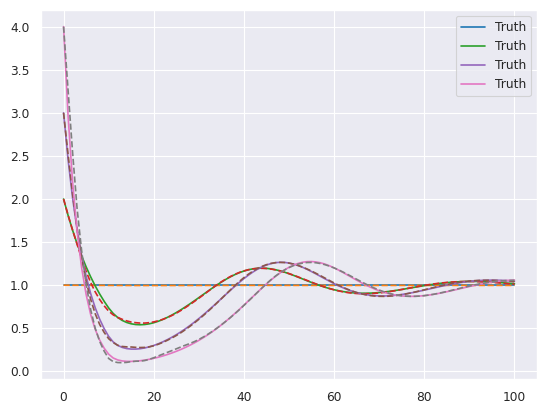
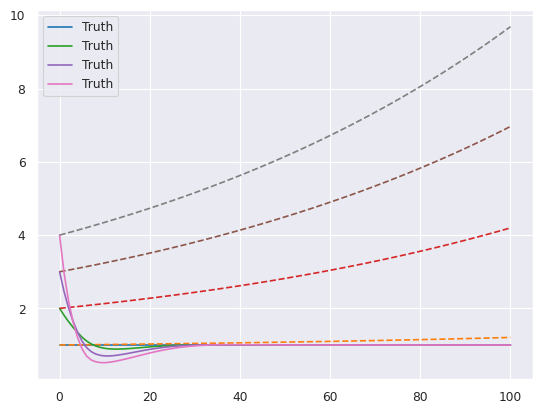
changed list of history to tensor

diff --git a/torchdde/nnde_adjoint.py b/torchdde/nnde_adjoint.py
@@ -171,12 +171,12 @@ class nddeint_ACA(torch.autograd.Function):
                 val = val + ctx.dt * func(
                     current_t,
                     val,
-                    history=[
+                    history = torch.hstack([
                         history_func(current_t - tau)
                         if current_t - tau <= ctx.ts[0]
                         else state_interpolator(current_t - tau)
                         for tau in delays
-                    ],
+                    ]),
                 )
                 state_interpolator.add_point(current_t, val)
                 values.append(val)
@@ -187,7 +187,6 @@ class nddeint_ACA(torch.autograd.Function):
         ctx.alltimes = alltimes
         ctx.history = state_interpolator
         ctx.allstates = torch.hstack(values)[..., None]
-        # print("tx.ys.grad_fn", ctx.allstates.grad_fn)
         return ctx.allstates
 
     @staticmethod
@@ -203,12 +202,9 @@ class nddeint_ACA(torch.autograd.Function):
         # f_params holds the NDDE parameters for which a gradient will be computed
         params = ctx.saved_tensors
         state_interpolator = ctx.history
-        # aux = []
-        # for t in time_mesh :
-        #     aux.append(state_interpolator(t)[0])
-
+     
         T = time_mesh[-1]
-        # adjoint_state = grad_output[:, -1]
+
         adjoint_state = torch.zeros_like(grad_output[:, -1])
         adjoint_ys_final = -grad_output[:, -1].reshape(
             adjoint_state.shape[0], 1, *adjoint_state.shape[1:]
@@ -225,8 +221,6 @@ class nddeint_ACA(torch.autograd.Function):
             # device=adjoint_ys_final.device,
         )
 
-        # adjoint_history = lambda t : adjoint_state if t==T else torch.zeros_like(adjoint_state)
-        out2 = None
         # The adjoint state as well as the parameters' gradient are integrated backwards in time.
         # Following the Adaptive Checkpoint Adjoint method, the time steps and corresponding states of the forward
         # integration are re-used by going backwards in the time mesh.
@@ -244,7 +238,7 @@ class nddeint_ACA(torch.autograd.Function):
                 h_t = torch.autograd.Variable(state_interpolator(t), requires_grad=True)
 
                 # we are in the case where t > T - tau
-                h_t_minus_tau = [state_interpolator(t - tau) if t - tau >= ctx.ts[0] else ctx.y0 for tau in ctx.func.delays]
+                h_t_minus_tau = torch.hstack([state_interpolator(t - tau) if t - tau >= ctx.ts[0] else ctx.y0 for tau in ctx.func.delays])
                 out = ctx.func(t, h_t, history=h_t_minus_tau)
     
                 rhs_adjoint_inc_k1 = torch.autograd.grad(
@@ -258,12 +252,11 @@ class nddeint_ACA(torch.autograd.Function):
                     if t < T - tau_i:
                         adjoint_t_plus_tau = adjoint_interpolator(t + tau_i)
                         h_t_plus_tau = state_interpolator(t + tau_i)
-                        history = [state_interpolator(t + tau_i - tau_j) if t + tau_i - tau_j >= ctx.ts[0] else ctx.y0 for tau_j in ctx.func.delays]
+                        history = torch.cat([state_interpolator(t + tau_i - tau_j)  if t + tau_i - tau_j >= ctx.ts[0] else ctx.y0 for tau_j in ctx.func.delays], dim=-1)
                         out_other = ctx.func(t + tau_i, h_t_plus_tau, history=history)
-                        print(out_other.grad_fn, h_t.grad_fn)
-                        print(adjoint_t_plus_tau.grad_fn)
+                        # out_other = ctx.func(t + tau_i, h_t_plus_tau, history=h_t)
                         rhs_adjoint_inc_k1 = torch.autograd.grad(
-                            out_other, h_t, -adjoint_t_plus_tau
+                            out_other, h_t, -adjoint_t_plus_tau, retain_graph=True
                         )[0]
                     
                         rhs_adjoint = rhs_adjoint + rhs_adjoint_inc_k1
@@ -281,26 +274,10 @@ class nddeint_ACA(torch.autograd.Function):
                 #     print("stacked_params", p.shape)
                 # aux.append(param_derivative_inc)
                 adjoint_state = adjoint_state - ctx.dt * rhs_adjoint
-
-                if out2 is None:
-                    out2 = tuple([+ ctx.dt* p for p in param_derivative_inc])
-                else:
-                    for _1, _2 in zip([*out2], [*param_derivative_inc]):
-                        _1 = _1 + ctx.dt* _2
         
         cum_sum = tuple([ctx.dt * torch.cumsum(p, dim=-1) for p in stacked_params])
         sum_cum_sum = tuple([torch.trapezoid(p, dim=-1) for p in cum_sum])
         
-        # print(*out2, "out2")
-        # values = np.array(aux)
-        # print('values,', values.shape)
-        # sum_cum_values = ctx.dt * torch.from_numpy(np.trapz(np.cumsum(values, axis=1), axis=0))
-        # sum_cum_values = ctx.dt * torch.from_numpy(np.sum(np.cumsum(values, axis=1), axis=0))
-        # print(sum_cum_values, *out2)
-        # print("cum_values", sum_cum_values.shape, sum_cum_values, *out2)
-        # plt.plot(values)
-        # plt.show()
-        # print(aux[-1].shape, values.shape, *out2)
         return None, None, None, *sum_cum_sum
         # return None, None, None, *out2
 

diff --git a/ndde.py b/ndde.py
@@ -30,14 +30,6 @@ def simple_dde3(t, y, *, history):
     return 0.25 * (history[0]) / (1.0 + history[0] ** 10) - 0.1 * y
     # return 1/2*y -history[0]
 
-class DDEModule(nn.Module):
-    def __init__(self,list_delays):
-        super().__init__()
-        self.delays = list_delays
-
-    def forward(self,t,y,*,history):
-
-        return  y * (1 - history[0])
 
 device = "cpu"
 history_values = torch.tensor([1.0, 2.0, 3.0, 4.0])
@@ -49,7 +41,7 @@ ts = torch.linspace(0, 10, 101)
 list_delays = [0.5, 1.0]
 solver = RK4()
 dde_solver = DDESolver(solver, list_delays)
-ys, _ = dde_solver.integrate(simple_dde2, ts, history_function)
+ys, _ = dde_solver.integrate(simple_dde, ts, history_function)
 print(ys.shape)
 
 for i in range(ys.shape[0]):
@@ -58,11 +50,6 @@ plt.pause(2)
 plt.close() 
 
 model = NDDE(history_values.shape[-1], list_delays)
-# try : 
-#     model.init_weight(1/2)
-# except:
-#     pass
-
 model = model.to(device)
 lossfunc = nn.MSELoss()
 opt = torch.optim.Adam(model.parameters(), lr=3e-3, weight_decay=0)

diff --git a/model.py b/model.py
@@ -16,7 +16,7 @@ class NDDE(nn.Module):
         )
 
     def forward(self, t, z, *, history):
-        inp = torch.cat([z, *history], dim=-1)
+        inp = torch.cat([z, history], dim=-1)
         return self.mlp(inp)
 
 
